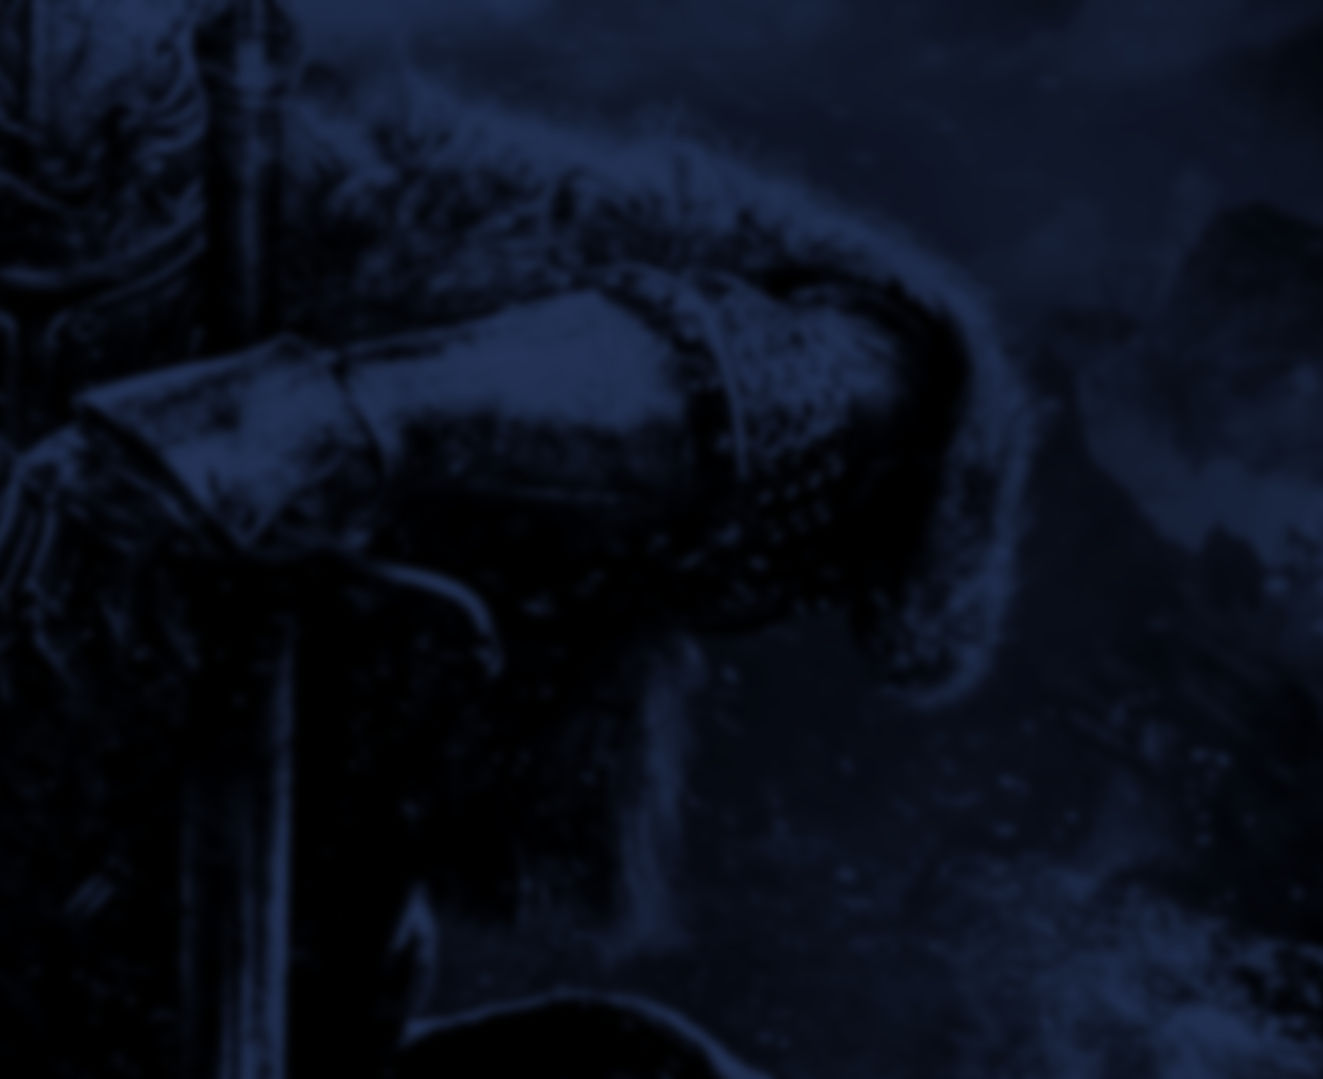
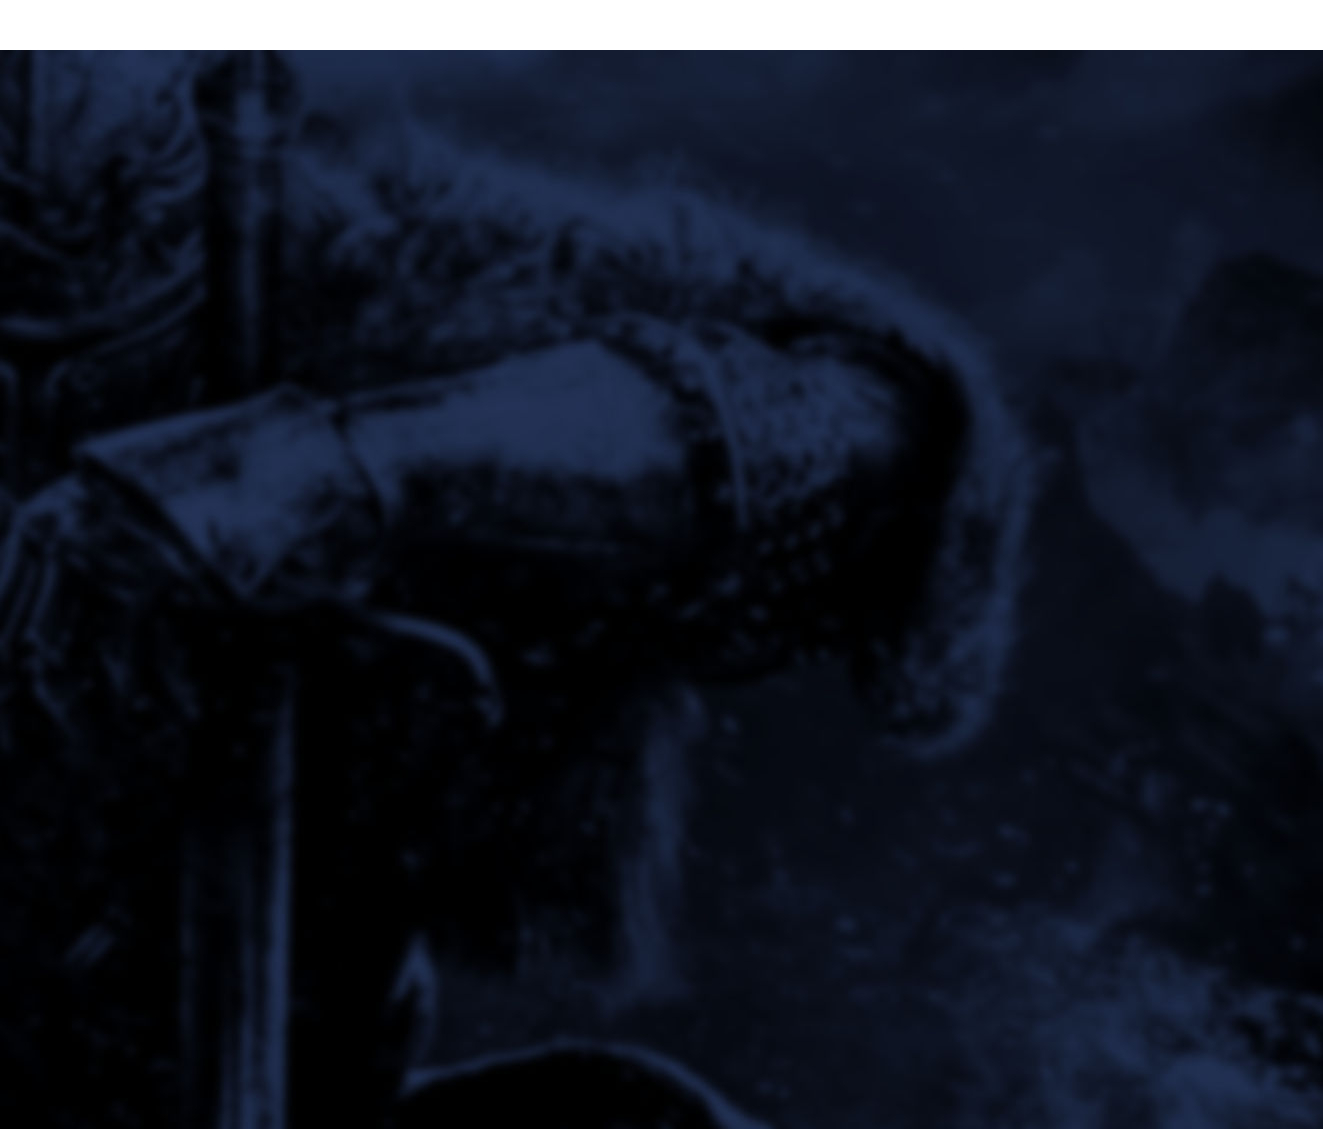
54

diff --git a/css/main.css b/css/main.css
@@ -1,5 +1,10 @@
 /*<--Menu*/
-body {
+.container-body {
+    background-image: url('../image/background_main.jpg'); 
+    background-repeat: no-repeat;
+    background-size: 100% 100%;
+    min-width: 600px;
+    min-height: 800px;
     height: 100%;
     width: 100%;
 }
@@ -19,12 +24,10 @@ body {
 }
 
 .container-main {
-    background-image: url('../image/background_main.jpg'); 
-    background-repeat: no-repeat;
-    background-size: 100%;
+
     height: 100%;
     padding: 100px 10% 100px 10%;
-    position: absolute;
+    position: fixed;
     width: 100%;
 }
 
